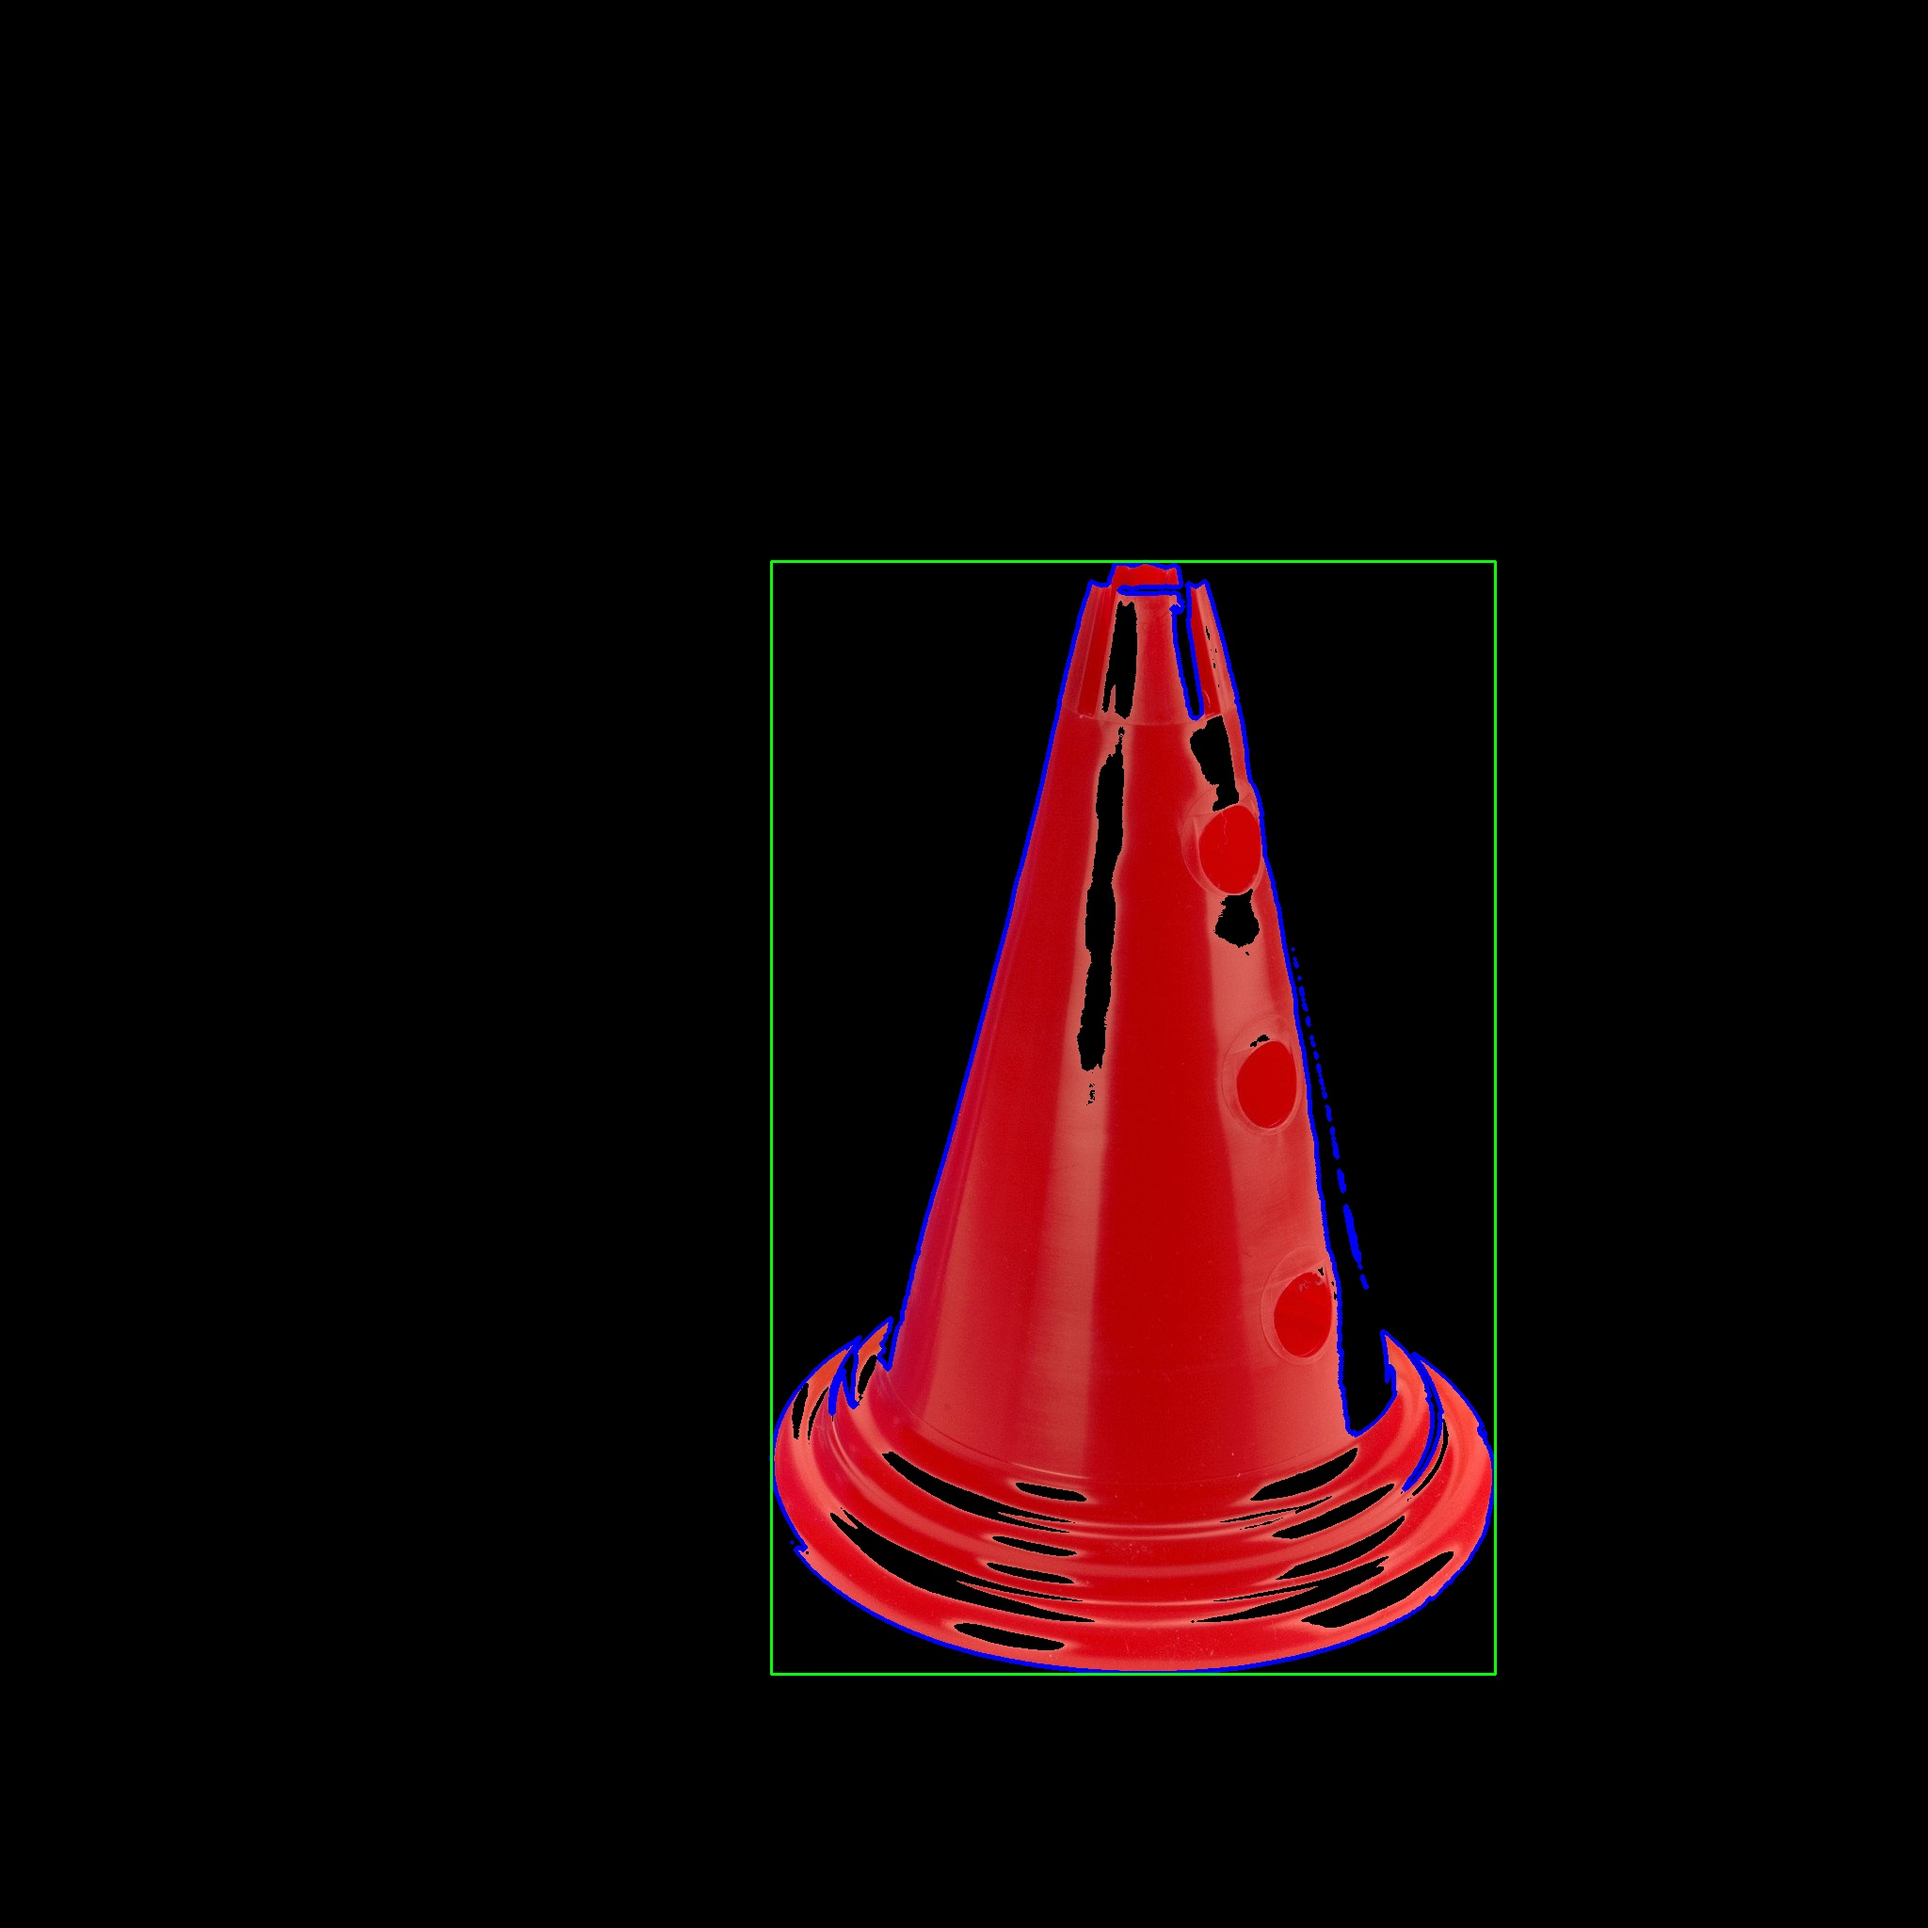
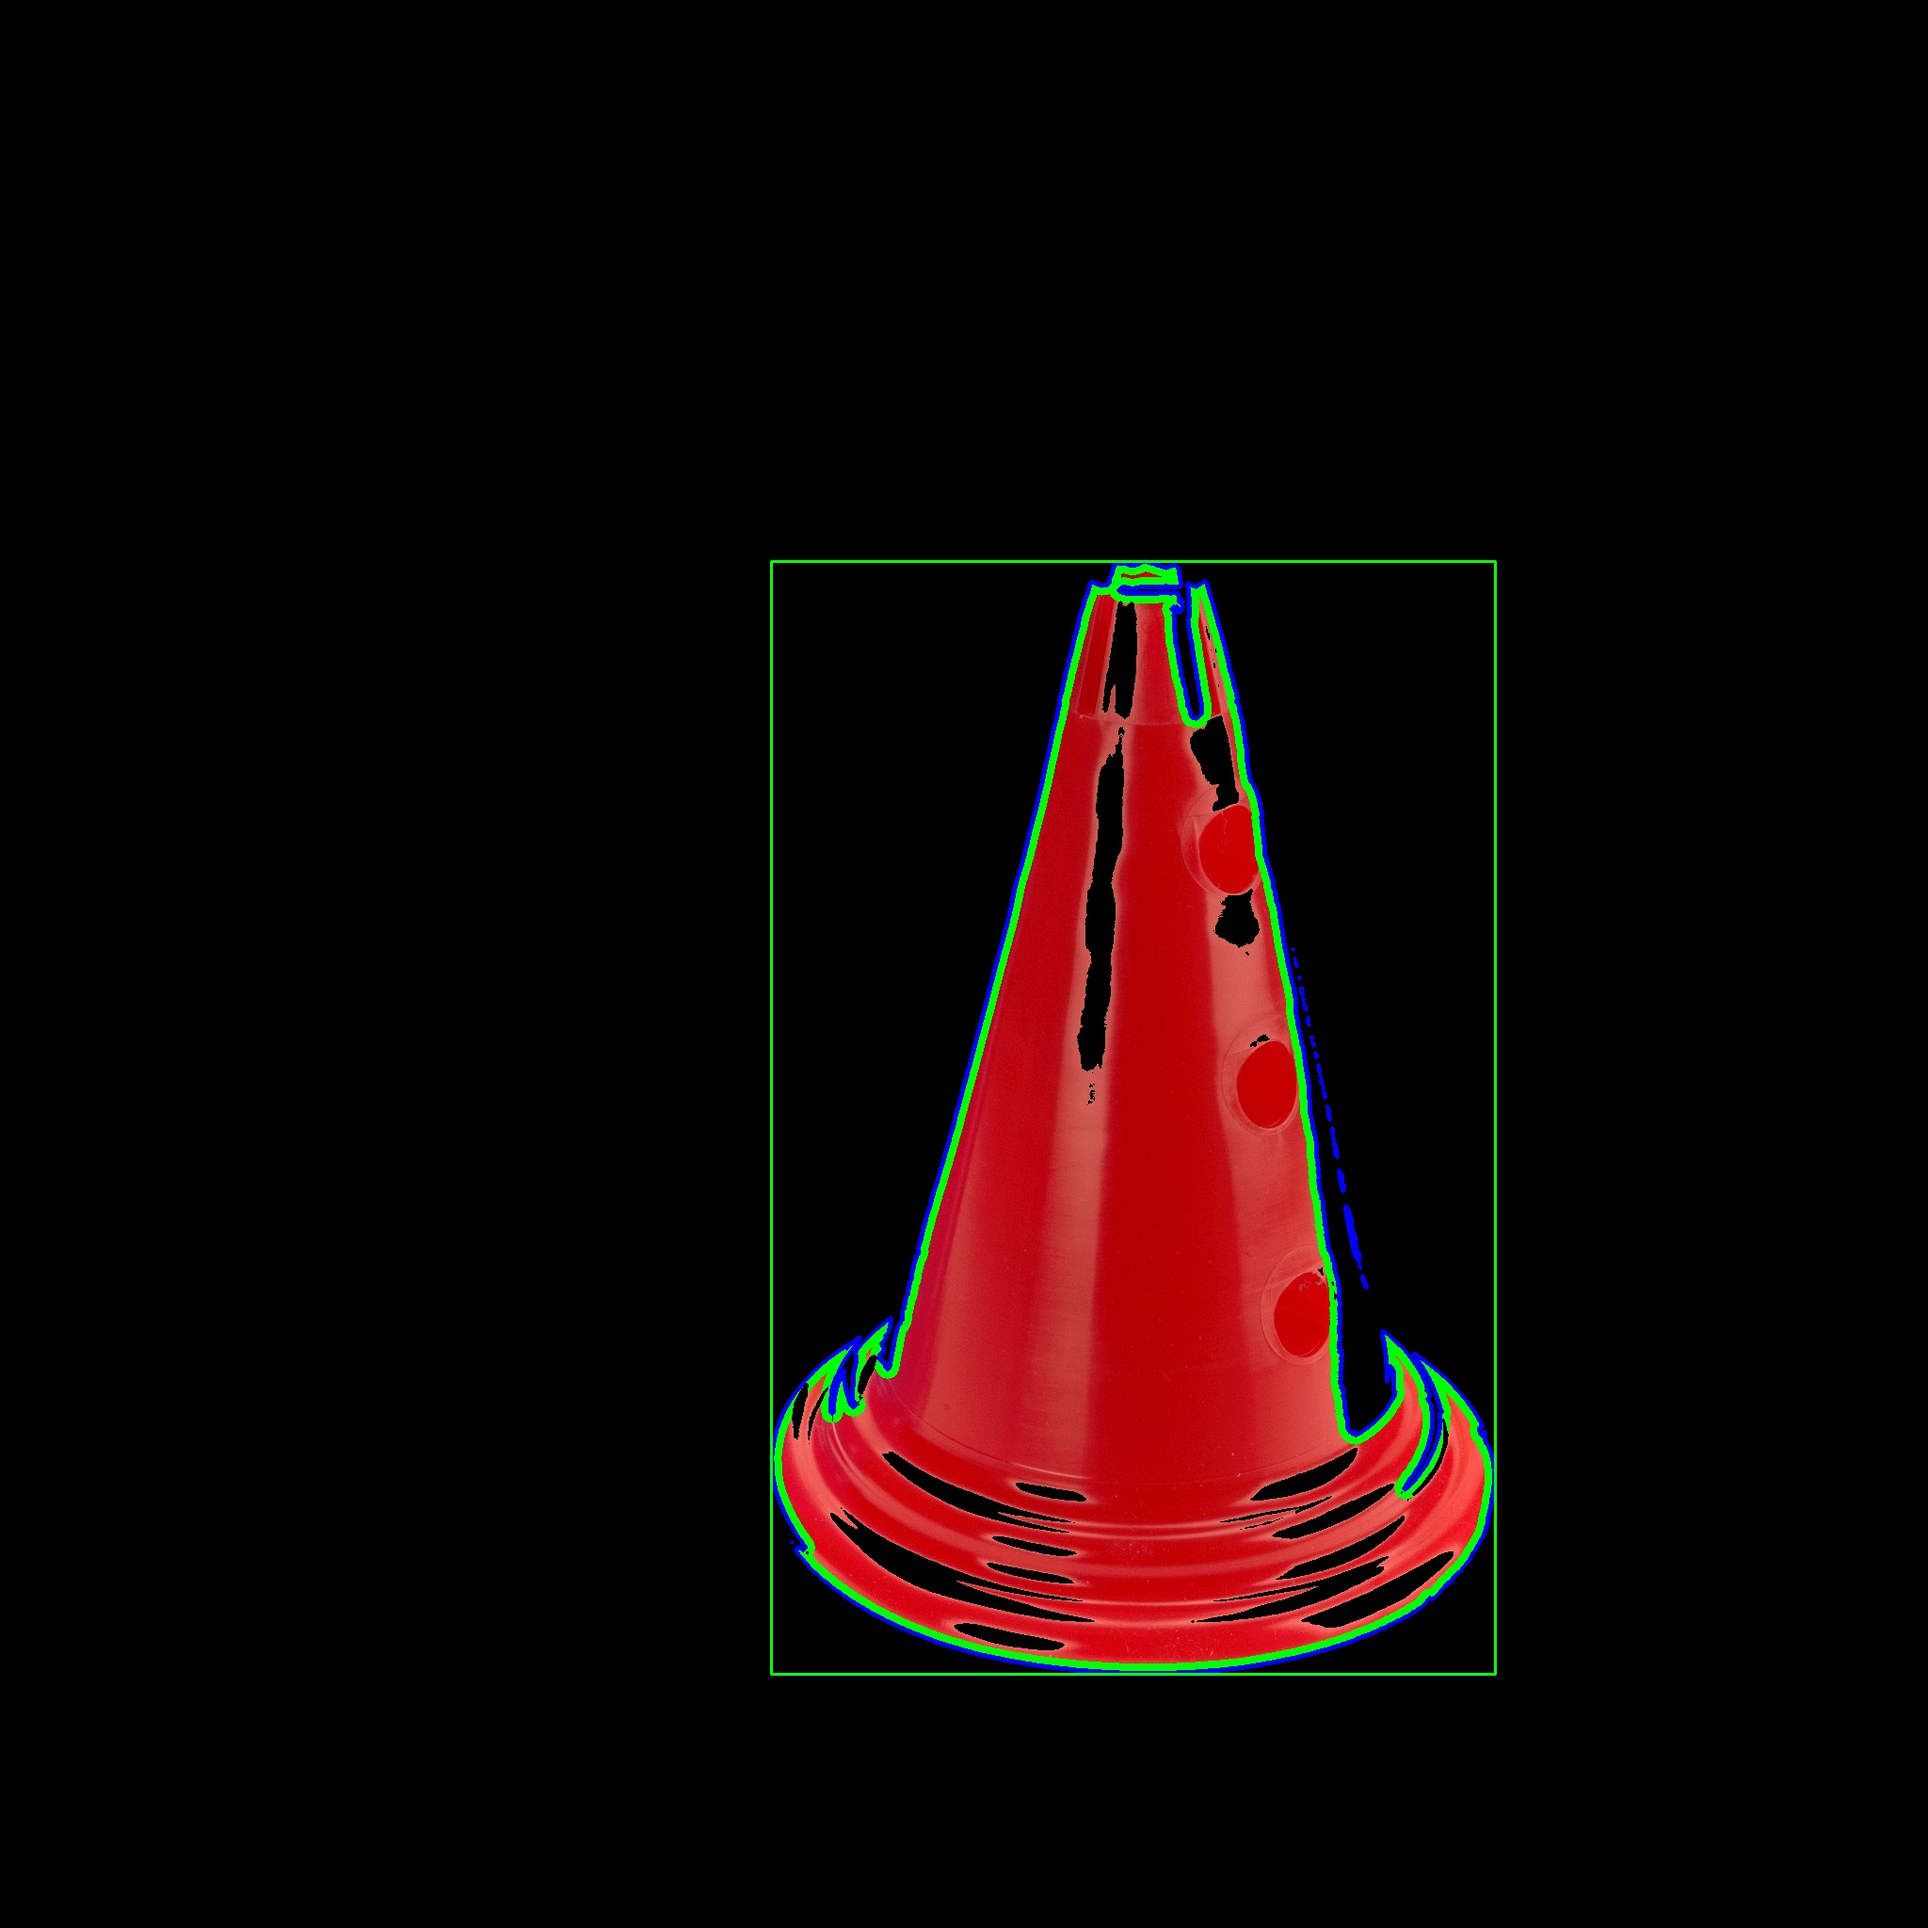
Draws a box around the largest item of a certain colour, improved documentation

diff --git a/MachineVision/findColourRealTime.py b/MachineVision/findColourRealTime.py
@@ -22,6 +22,14 @@ while True:
         if area > 500:
             cv2.drawContours(frame, contour, -1, (0,255,0), 3)
 
+    if len(contours) != 0:  # check if there's anything in contours
+        cv2.drawContours(frame, contours, -1, 255, 3)  # draws contours in blue
+
+        c = max(contours, key=cv2.contourArea)  # finds contour with largest area
+
+        x, y, w, h = cv2.boundingRect(c)
+        cv2.rectangle(frame, (x, y), (x + w, y + h), (0, 255, 0), 2)  # draw rectangle around largest cone
+
     cv2.imshow("Frame", frame)
     cv2.imshow("Mask", mask)
 

diff --git a/MachineVision/findColour.py b/MachineVision/findColour.py
@@ -15,7 +15,7 @@ def findColour(filename, colour) -> object:
     # RED COLOUR BOUNDARIES
     red_lower = np.array([0, 150, 0])  # pair of least red and most red on the hsv map
     red_upper = np.array([7, 255, 359])
-    wrap_around_lower = np.array([170, 150, 0])    # still need tweaking, doesnt pick up very light reds
+    wrap_around_lower = np.array([170, 150, 0])  # still need tweaking, doesnt pick up very light reds
     wrap_around_upper = np.array([180, 255, 359])  # Could draw box around item to remedy this?
 
     # GREEN COLOUR BOUNDARIES
